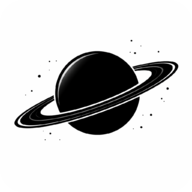
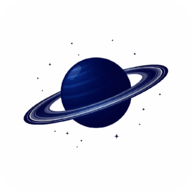
New Update

diff --git a/src/Todo.jsx b/src/Todo.jsx
@@ -1145,7 +1145,7 @@ function Todo() {
                                 )}
 
                                 <div className="btn-cntnr">
-                                  <div>
+                                  {/* <div>
                                     <input
                                       type="color"
                                       className="color-picker"
@@ -1157,7 +1157,7 @@ function Todo() {
                                         )
                                       }
                                     />
-                                  </div>
+                                  </div> */}
                                   <button
                                     className="dlt-btn"
                                     title="Select Color"
@@ -1326,7 +1326,7 @@ function Todo() {
                             </div>
                           )}
                           <div className="btn-cntnr">
-                            <div>
+                            {/* <div>
                               <input
                                 type="color"
                                 className="color-picker"
@@ -1335,7 +1335,7 @@ function Todo() {
                                   changeBackgroundColor(todo.id, e.target.value)
                                 }
                               />
-                            </div>
+                            </div> */}
                             <button
                               className="dlt-btn"
                               title="Select Color"

diff --git a/src/Notes.jsx b/src/Notes.jsx
@@ -770,7 +770,7 @@ function Notes() {
                               )}
 
                               <div className="btn-cntnr">
-                                <div>
+                                {/* <div>
                                   <input
                                     type="color"
                                     className="color-picker"
@@ -782,7 +782,7 @@ function Notes() {
                                       )
                                     }
                                   />
-                                </div>
+                                </div> */}
                                 <button
                                   className="dlt-btn"
                                   title="Select Color"
@@ -928,7 +928,7 @@ function Notes() {
                           </div>
                         )}
                         <div className="btn-cntnr">
-                          <div>
+                          {/* <div>
                             <input
                               type="color"
                               className="color-picker"
@@ -937,7 +937,7 @@ function Notes() {
                                 changeBackgroundColor(note.id, e.target.value)
                               }
                             />
-                          </div>
+                          </div> */}
                           <button
                             className="dlt-btn"
                             title="Select Color"

diff --git a/src/index.css b/src/index.css
@@ -781,7 +781,7 @@ html.dark-theme {
 .dlt-btn {
   background: transparent;
   border: 1px solid transparent;
-  font-size: 28px;
+  font-size: 18px;
   color: white;
   cursor: pointer;
   width: 40px;
@@ -1168,14 +1168,14 @@ html.dark-theme {
   position: fixed; /* Keep as fixed for dynamic positioning */
   z-index: 10000;
   background: white !important;
-  box-shadow:
+  /* box-shadow:
     0 0 15px rgba(255, 255, 255, 0.3),
     0 0 30px rgba(255, 255, 255, 0.2),
     0 0 45px rgba(255, 255, 255, 0.1),
-    0 4px 12px rgba(0, 0, 0, 0.15);
+    0 4px 12px rgba(0, 0, 0, 0.15); */
   animation: jello 0.4s;
   margin-bottom: 45px;
-  margin-left: 62px;
+  margin-left: 7px;
 }
 
 /*****************************FOR MINDMAP******************************************/
@@ -2533,7 +2533,7 @@ html {
 
   .color-selector {
     /* top: 55%; */
-    left: 3%;
+    left: 14%;
   }
 
   .notes-modal {
@@ -2634,7 +2634,7 @@ html {
   .dlt-btn {
     width: 36px;
     height: 36px;
-    font-size: 28px;
+    font-size: 18px;
   }
 
   .crt-nt-btn-div {
